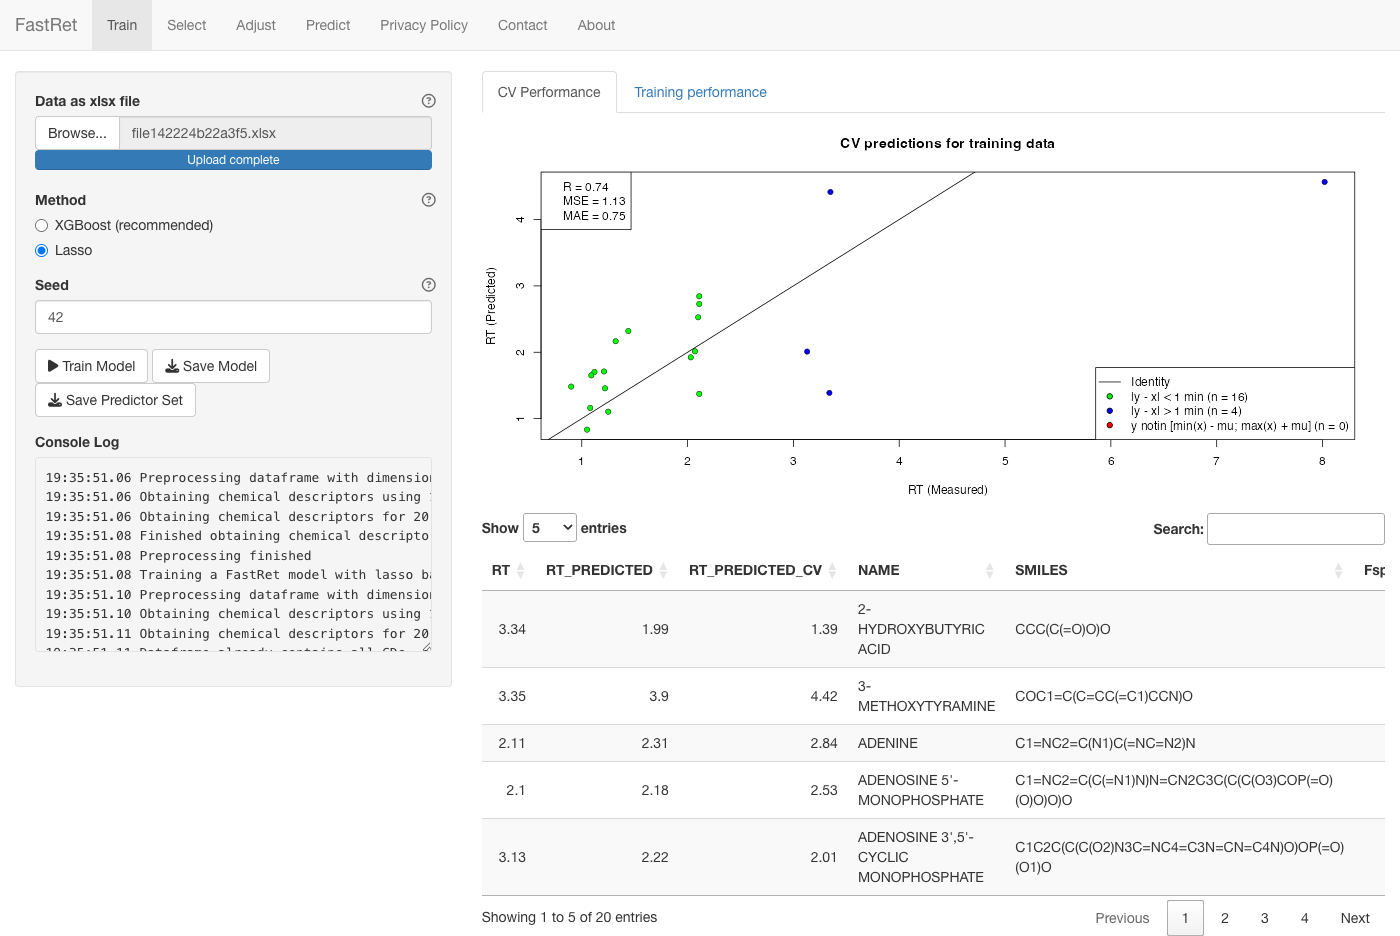
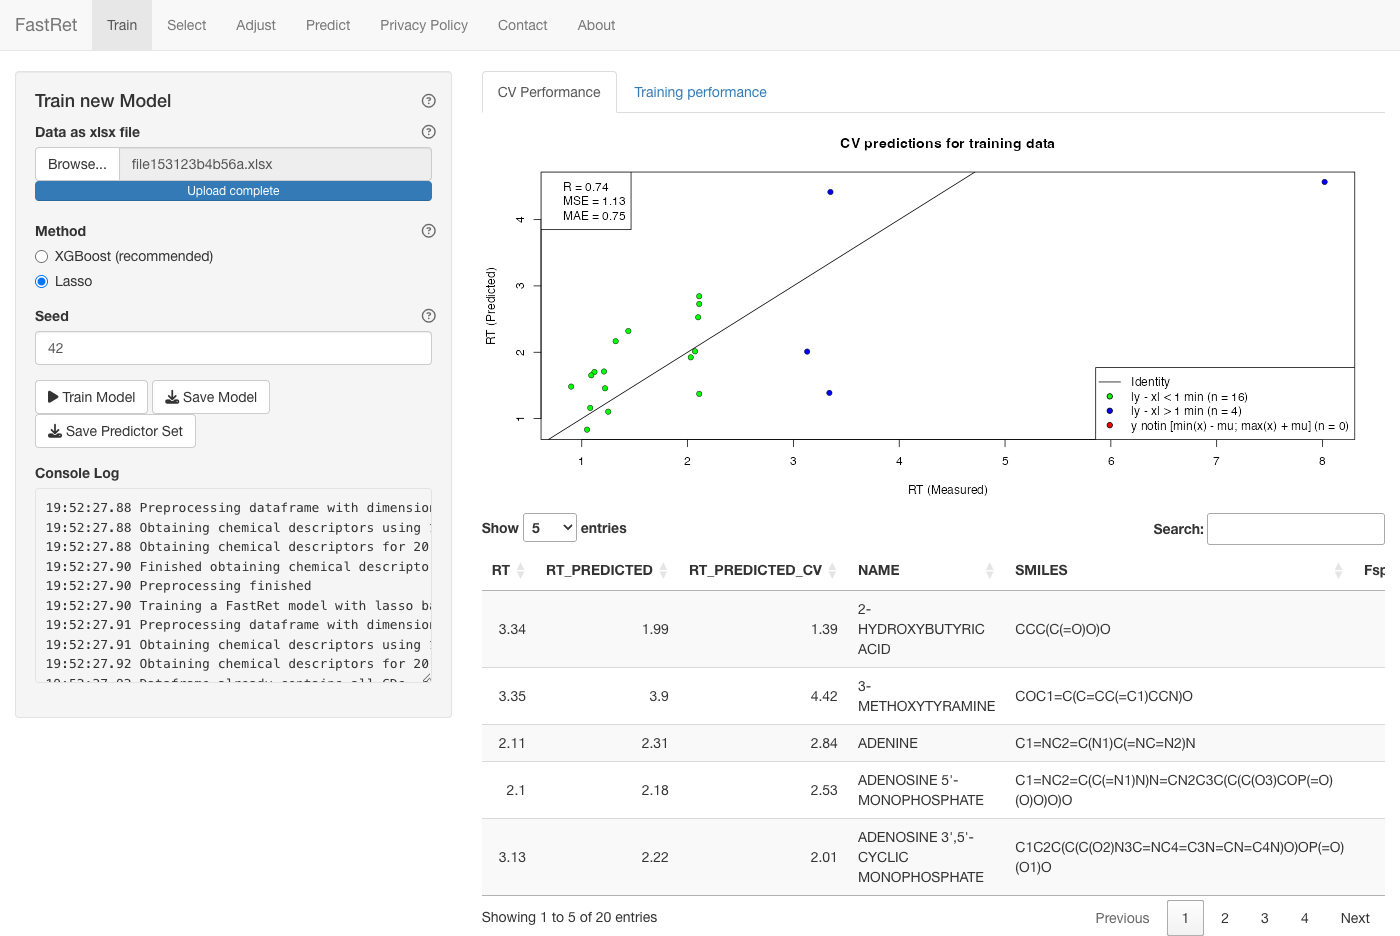
GUI: add a heading + per-mode help button to each tab sidebar
Each sidebar now opens with the mode name (Train new Model, Selective Measuring,
Adjust existing Model, Predict Retention Times) and a help button summarising
what the mode is for and when to use it. Regenerate the screenshots.

Changed region(s): [[0.0, 0.0929, 0.3071, 0.7126]]

diff --git a/NEWS.md b/NEWS.md
@@ -66,6 +66,9 @@ GUI:
    prediction console output so it no longer implies that descriptors are
    recomputed when they are served from the cache.
 
+8. Each tab's sidebar now starts with a heading (the mode name) and a help button
+   that explains, in a few sentences, what the mode is for and when to use it.
+
 Testing:
 
 1. Added `shinytest2` end-to-end GUI tests (`tests/testthat/test-gui-e2e.R`)
